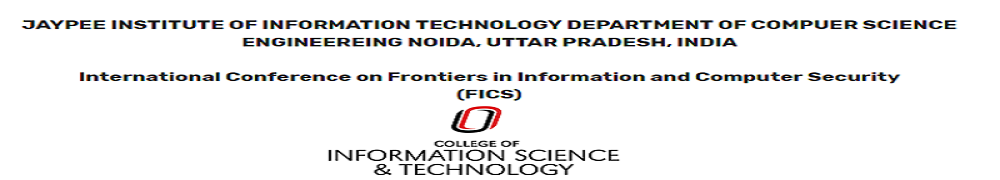
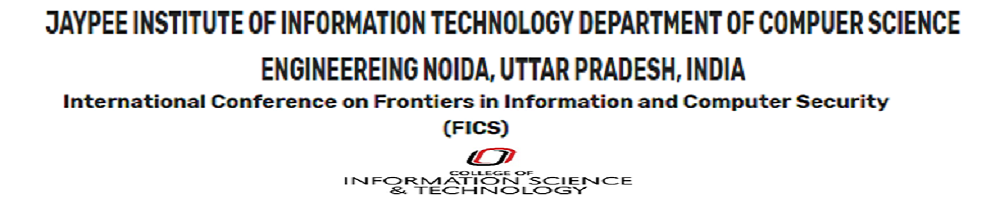
improved_code

Changed region(s): [[0.0, 0.0278, 0.961, 0.5556], [0.31, 0.5833, 0.651, 0.9722]]

diff --git a/css/styleindex.css b/css/styleindex.css
@@ -12,13 +12,14 @@
 .logo {
   background: url('../images/jiit.jpg') no-repeat;
   background-size: contain;
+  background-position: center;
   width: 100%;
   height: 22vh;
   font-weight: bold;
 }
 .logo-2 {
   background: url('../images/nebrasca.png') no-repeat;
-  background-size: contain;
+  background-size: auto;
   background-position: center;
   width: 100%;
   height: 22vh;
@@ -27,29 +28,33 @@
   .confName {
     background: url('../images/jiit.png') no-repeat;
     background-size: contain;
+    background-position: center;
     width: 100%;
     height: 10vh;
   }
   .logo {
     background: url('../images/jiit.jpg') no-repeat;
     background-size: contain;
+    background-position: center;
     width: 100%;
     height: 10vh;
     font-weight: bold;
   }
   .logo-2 {
-    background: url('../images/cist.jpg') no-repeat;
+    background: url('../images/nebrasca.png') no-repeat;
     background-size: contain;
+    background-position: center;
     width: 100%;
     height: 10vh;
   }
 }
+
 iframe {
   overflow-y: auto;
   overflow-x: hidden;
 }
 .carousel-item {
-  height: 65vh;
+  height: 70vh;
   background: no-repeat center center scroll;
   -webkit-background-size: cover;
   -moz-background-size: cover;
@@ -114,6 +119,7 @@ nav a:hover{
   margin: 0px 0px 0px 0px;
 }
 .changing_component {
+  height:
   padding: 0px 0px 0px 0px;
   margin: 0px 0px 0px 0px;
 }
@@ -192,10 +198,6 @@ nav a{
   color: black;
 }
 .margin_set {
-  padding: 0px 0px 0px 0px;
-  margin: 0px 0px 0px 0px;
-}
-.changing_component {
   padding: 0px 0px 0px 0px;
   margin: 0px 0px 0px 0px;
 }

diff --git a/index.html b/index.html
@@ -166,7 +166,7 @@
     }*/
   </style>
 <body>
-  <div class="container">
+  <div>
     <div class="row">
       <div class="logo col-2"></div>
       <div class="confName col-8">
